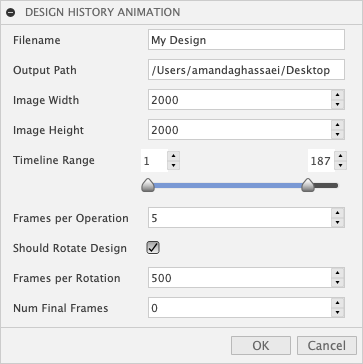
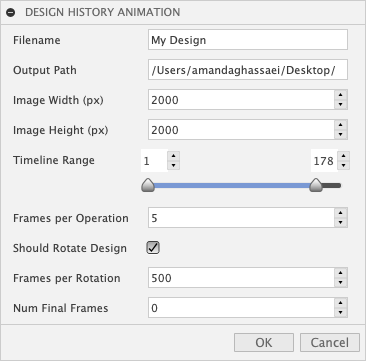
ui

diff --git a/Design-History-Animation/Design-History-Animation.py b/Design-History-Animation/Design-History-Animation.py
@@ -83,8 +83,8 @@ class CommandCreatedHandler(adsk.core.CommandCreatedEventHandler):
             # File params.
             inputs.addStringValueInput('filename', 'Filename', timelapse.filename)
             inputs.addStringValueInput('outputPath', 'Output Path', timelapse.outputPath)
-            inputs.addIntegerSpinnerCommandInput('width', 'Image Width', 1, 1000000, 1, timelapse.width)
-            inputs.addIntegerSpinnerCommandInput('height', 'Image Height', 1, 1000000, 1, timelapse.height)
+            inputs.addIntegerSpinnerCommandInput('width', 'Image Width (px)', 1, 1000000, 1, timelapse.width)
+            inputs.addIntegerSpinnerCommandInput('height', 'Image Height (px)', 1, 1000000, 1, timelapse.height)
             # Animation params.
             inputs.addIntegerSliderCommandInput('range', 'Timeline Range', 1, timelapse.timeline.count, True)
             inputs.itemById('range').valueOne = timelapse.start
